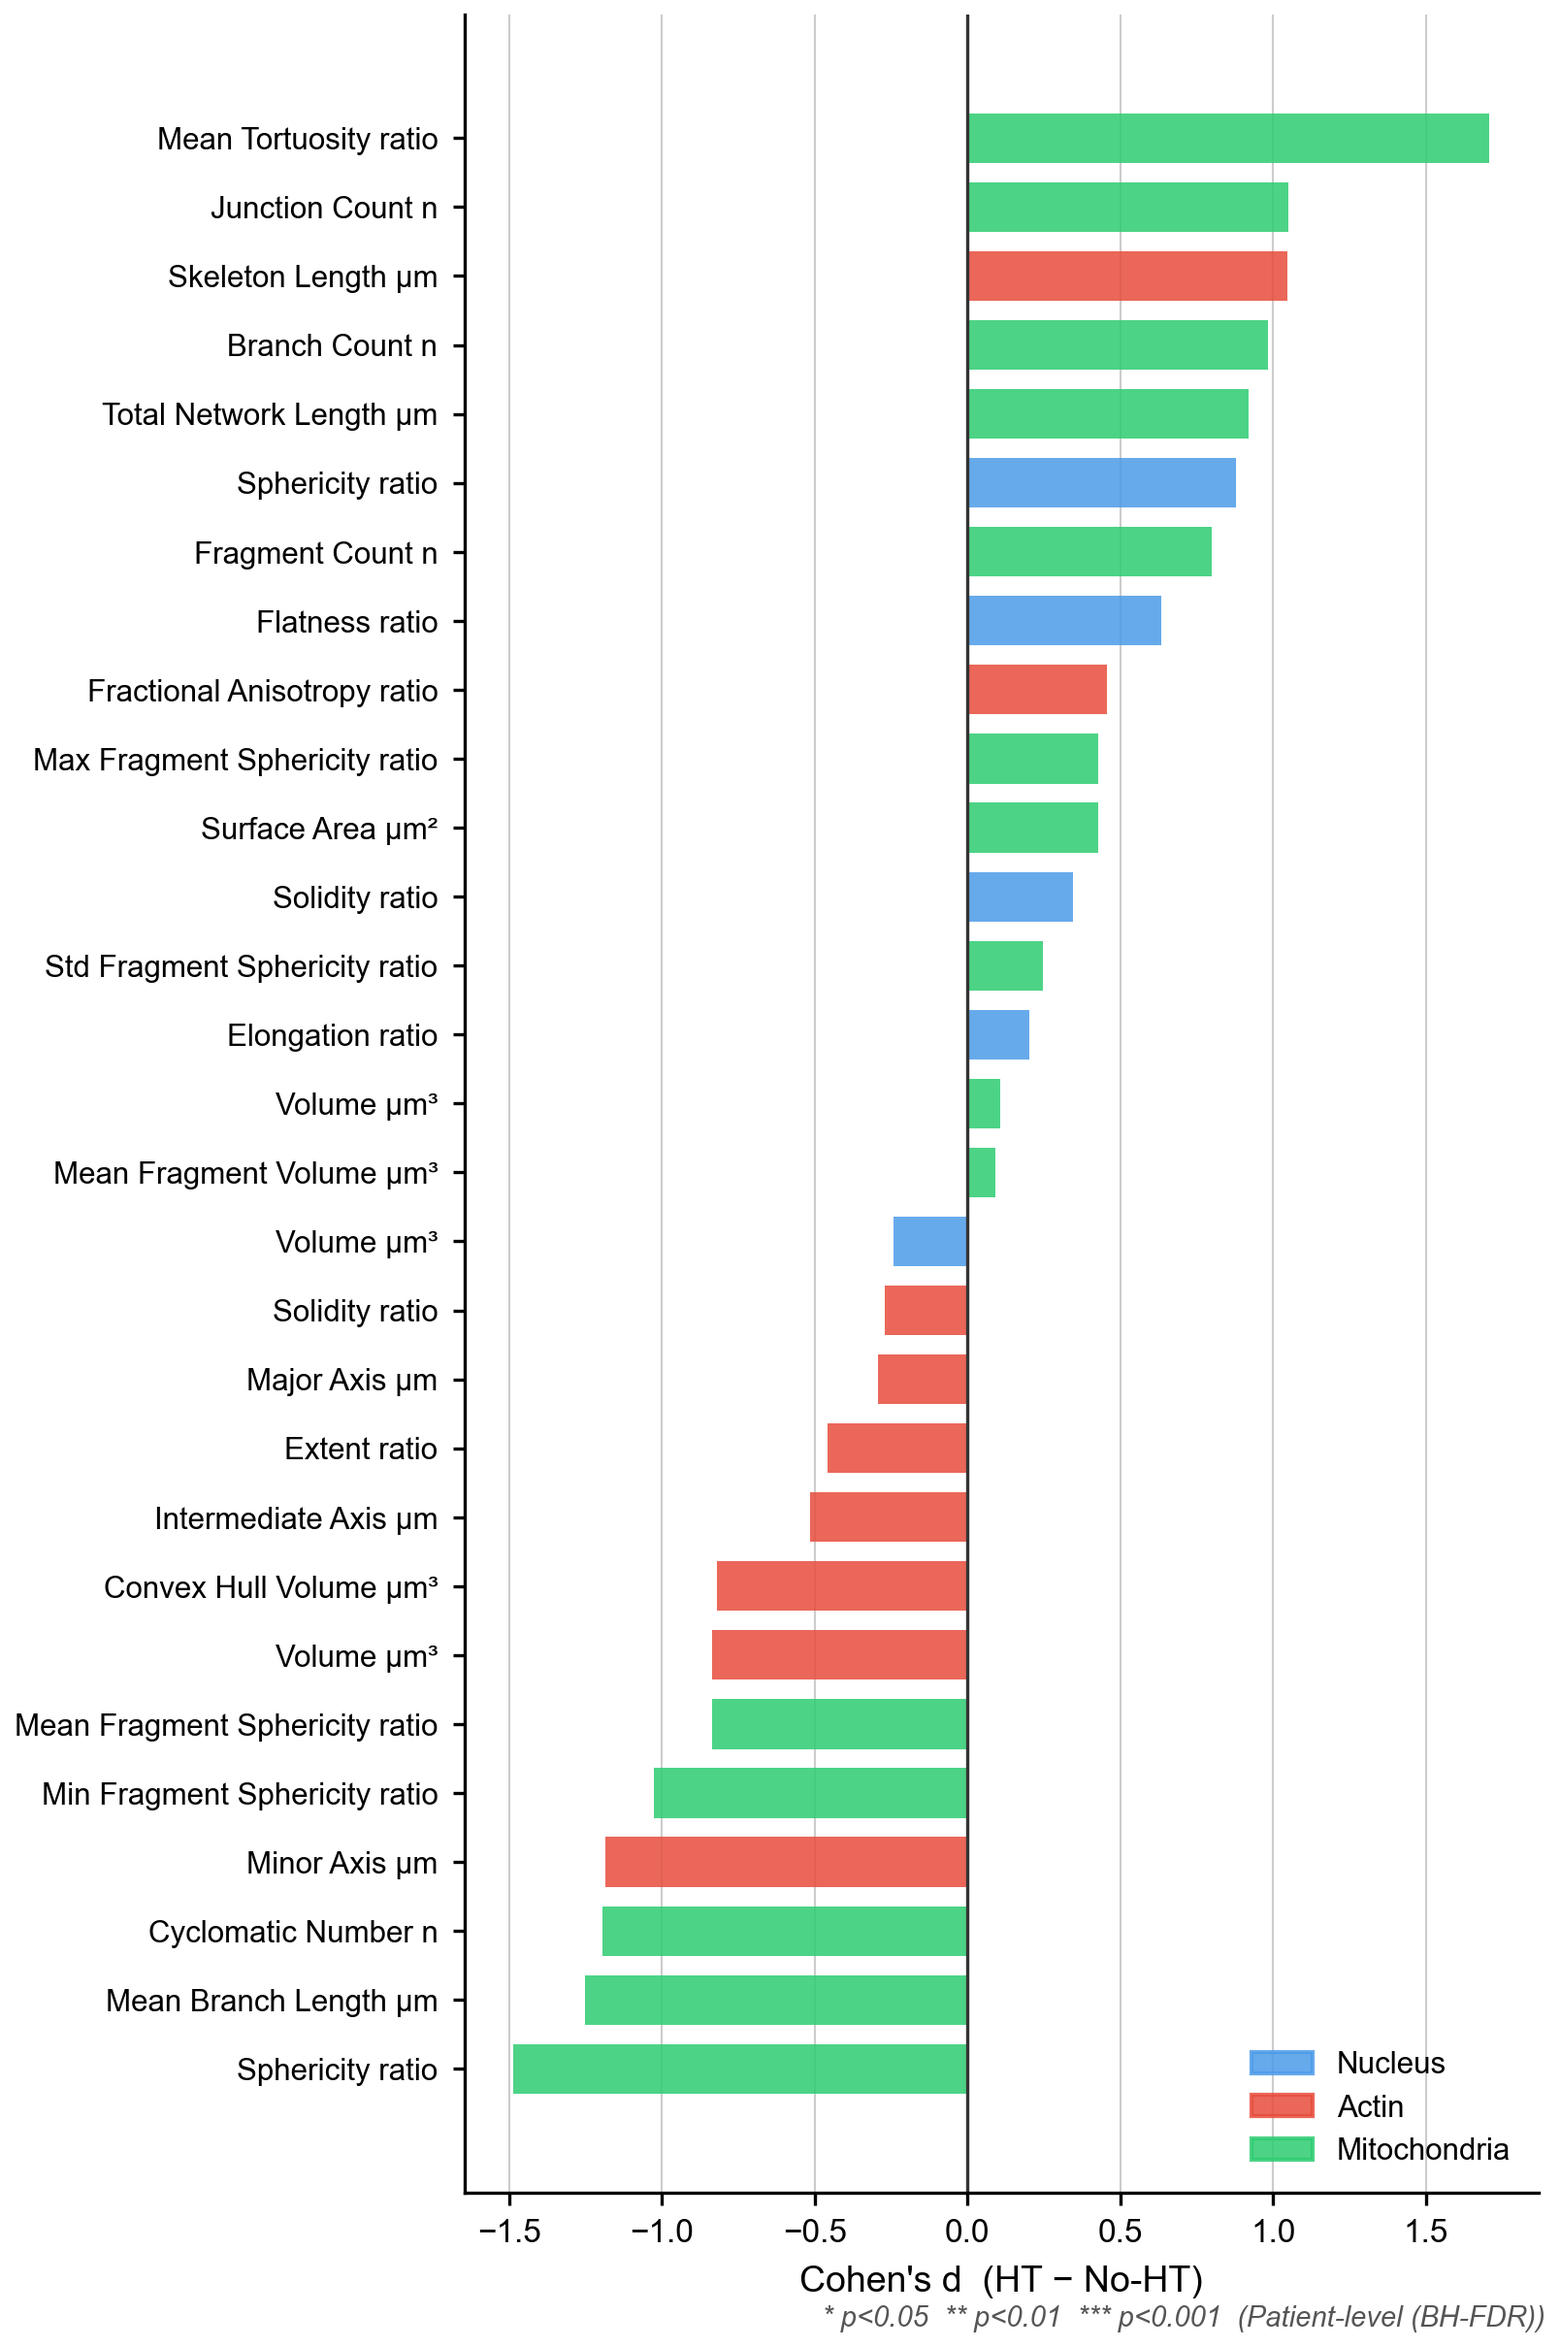
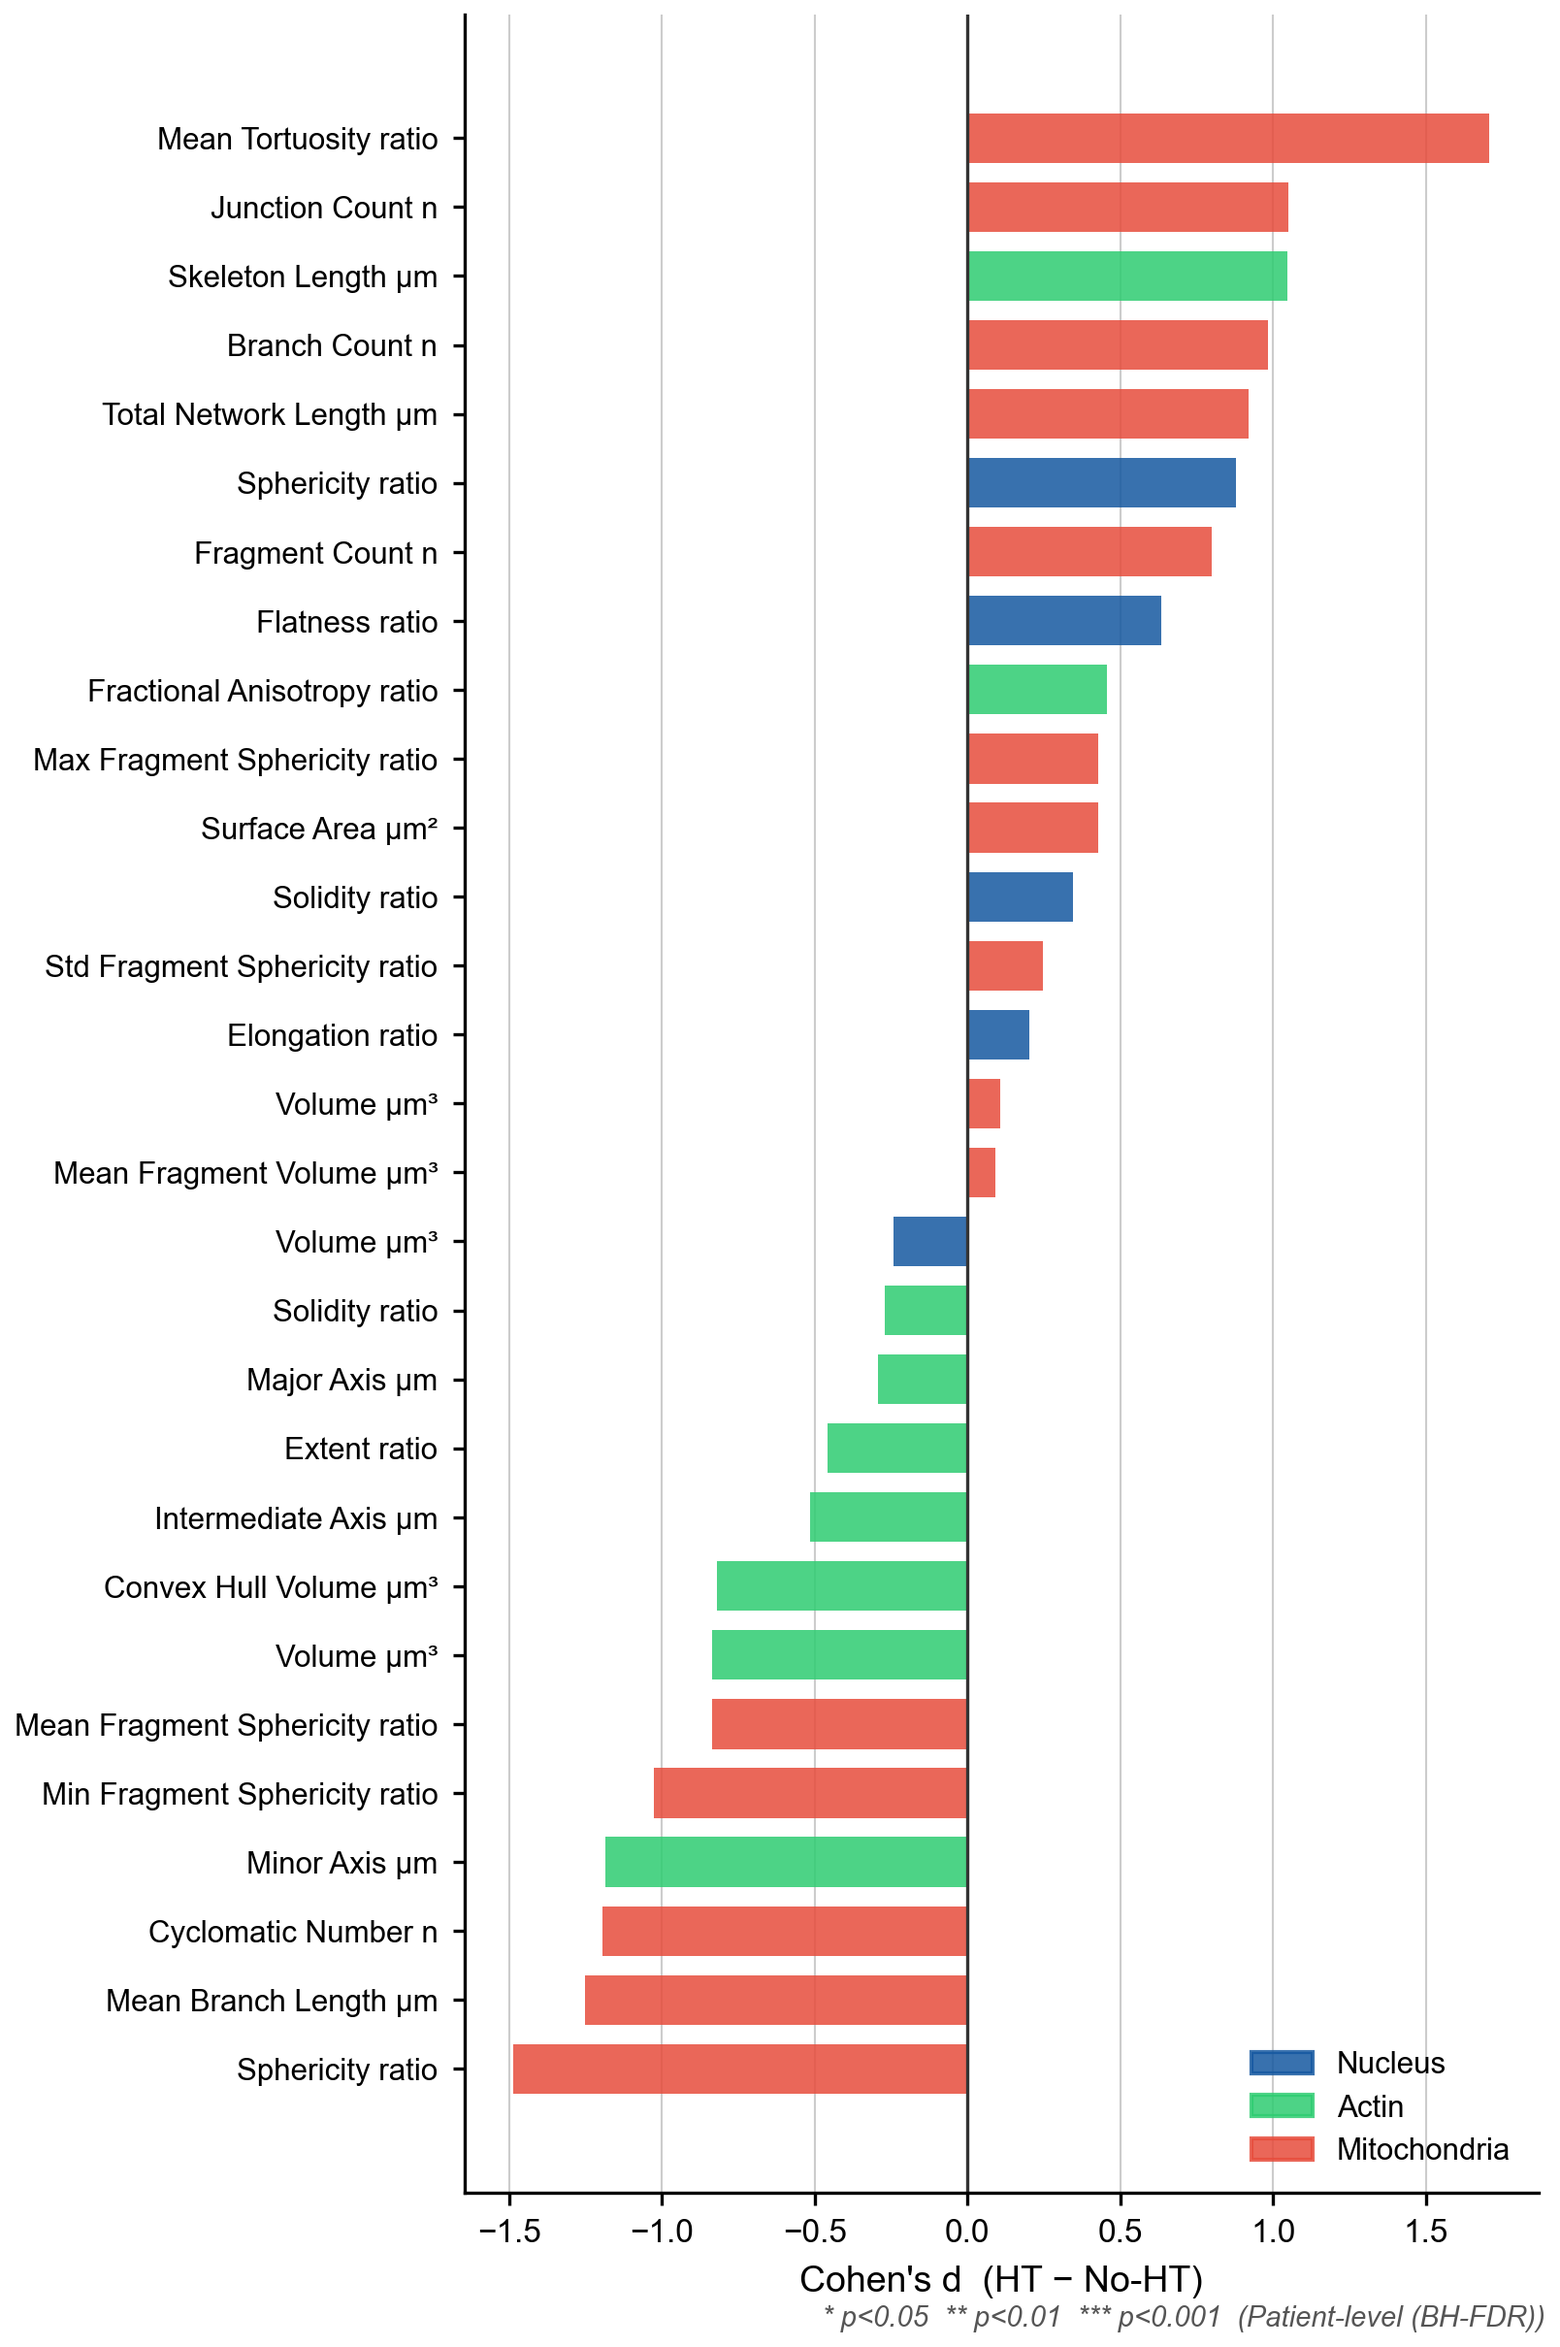
new cohort analysis

Changed region(s): [[0.3109, 0.031, 0.9639, 0.8991], [0.7774, 0.8681, 0.8396, 0.9301]]

diff --git a/src/analysis/plot_cohort_demographics.py b/src/analysis/plot_cohort_demographics.py
@@ -1,0 +1,223 @@
+"""
+Cohort demographics figure: age distribution + sex composition.
+Outputs: outputs/figures/cohort_demographics.png
+"""
+
+import csv
+import math
+import numpy as np
+import matplotlib
+matplotlib.use('Agg')
+import matplotlib.pyplot as plt
+import matplotlib.patches as mpatches
+from pathlib import Path
+from scipy.stats import kruskal, chi2_contingency
+
+PROJ = Path(__file__).resolve().parents[2]
+OUT  = PROJ / 'outputs' / 'figures'
+OUT.mkdir(parents=True, exist_ok=True)
+
+# ── colours matching shared_stats.py ─────────────────────────────────────────
+GROUP_COLORS = {
+    'Healthy': '#4C9BE8',
+    'TAA':     '#E74C3C',
+    'BAV':     '#F39C12',
+}
+GROUP_LABELS = {
+    'Healthy': 'TAV-NA',
+    'TAA':     'TAV-ATAA',
+    'BAV':     'BAV-ATAA',
+}
+SEX_MARKER = {'Male': 'o', 'Female': '^'}
+SEX_FACE   = {'Male': 'white', 'Female': None}   # open = male, filled = female
+
+# ── load data ─────────────────────────────────────────────────────────────────
+def load(path):
+    with open(path) as f:
+        return list(csv.DictReader(f))
+
+p1 = load(PROJ / 'outputs' / 'final_thesis_part1' / 'patient' / 'patient_means.csv')
+p2 = load(PROJ / 'outputs' / 'final_thesis_part2' / 'patient' / 'patient_means.csv')
+
+all_pts = {r['Subject']: r for r in p1}
+for r in p2:
+    if r['Subject'] not in all_pts:
+        all_pts[r['Subject']] = r
+
+groups  = ['Healthy', 'TAA', 'BAV']
+disease_map = {'Healthy': 'Healthy', 'TAA': 'TAA', 'BAV': 'BAV'}
+
+pts_by_group = {g: [] for g in groups}
+for r in all_pts.values():
+    d = r['Disease']
+    if d in pts_by_group:
+        pts_by_group[d].append(r)
+
+# ── stats ─────────────────────────────────────────────────────────────────────
+def ages(rows):
+    return [float(r['Age']) for r in rows if r['Age'] not in ('', 'nan', 'NaN')]
+
+ages_h = ages(pts_by_group['Healthy'])
+ages_t = ages(pts_by_group['TAA'])
+ages_b = ages(pts_by_group['BAV'])
+
+kw_stat, kw_p = kruskal(ages_h, ages_t, ages_b)
+
+sex_counts = {}
+for g in groups:
+    rows = pts_by_group[g]
+    sex_counts[g] = {
+        'Male':   sum(1 for r in rows if r['Gender'] == 'Male'),
+        'Female': sum(1 for r in rows if r['Gender'] == 'Female'),
+    }
+table = [[sex_counts[g]['Male'] for g in groups],
+         [sex_counts[g]['Female'] for g in groups]]
+_, chi2_p, _, _ = chi2_contingency(table)
+
+# ── paper rc ─────────────────────────────────────────────────────────────────
+plt.rcParams.update({
+    'font.family':     'Arial',
+    'font.sans-serif': ['Arial'],
+    'font.size':       9,
+    'axes.titlesize':  9,
+    'axes.labelsize':  9,
+    'xtick.labelsize': 8,
+    'ytick.labelsize': 8,
+    'legend.fontsize': 8,
+    'axes.linewidth':  0.8,
+    'xtick.major.width': 0.8,
+    'ytick.major.width': 0.8,
+    'xtick.major.size':  3,
+    'ytick.major.size':  3,
+    'axes.spines.top':   False,
+    'axes.spines.right': False,
+    'savefig.dpi':       300,
+})
+
+# ── figure layout ─────────────────────────────────────────────────────────────
+fig = plt.figure(figsize=(7.2, 3.2))
+# left panel wider (age), right panel narrower (sex)
+gs = fig.add_gridspec(1, 2, width_ratios=[1.6, 1.0], wspace=0.38,
+                      left=0.09, right=0.97, top=0.88, bottom=0.14)
+ax_age = fig.add_subplot(gs[0])
+ax_sex = fig.add_subplot(gs[1])
+
+# ══════════════════════════════════════════════════════════════════════════════
+# PANEL A — age strip plot with mean ± SD
+# ══════════════════════════════════════════════════════════════════════════════
+group_x = {'Healthy': 1, 'TAA': 2, 'BAV': 3}
+jitter_seed = 42
+rng = np.random.default_rng(jitter_seed)
+
+for g in groups:
+    rows  = pts_by_group[g]
+    xc    = group_x[g]
+    color = GROUP_COLORS[g]
+    ag    = ages(rows)
+
+    # mean ± SD bar
+    mn  = np.mean(ag)
+    sd  = np.std(ag, ddof=1)
+    ax_age.plot([xc - 0.18, xc + 0.18], [mn, mn],
+                color=color, lw=2.0, solid_capstyle='round', zorder=4)
+    ax_age.errorbar(xc, mn, yerr=sd, fmt='none',
+                    color=color, lw=1.4, capsize=4, capthick=1.4, zorder=4)
+
+    # individual dots, jittered, coded by sex
+    jitter = rng.uniform(-0.14, 0.14, size=len(rows))
+    for i, r in enumerate(rows):
+        if r['Age'] in ('', 'nan', 'NaN'):
+            continue
+        age = float(r['Age'])
+        sex = r['Gender']
+        marker  = SEX_MARKER.get(sex, 'o')
+        fc      = 'white' if sex == 'Male' else color
+        ec      = color
+        ax_age.scatter(xc + jitter[i], age,
+                       marker=marker, s=38, facecolor=fc,
+                       edgecolor=ec, linewidth=1.2, zorder=5)
+
+ax_age.set_xticks([1, 2, 3])
+ax_age.set_xticklabels([GROUP_LABELS[g] for g in groups])
+ax_age.set_ylabel('Age (years)')
+ax_age.set_xlim(0.5, 3.5)
+ax_age.set_ylim(30, 90)
+ax_age.set_yticks([30, 40, 50, 60, 70, 80, 90])
+
+# KW annotation
+kw_str = f'Kruskal–Wallis\n$p$ = {kw_p:.3f}'
+ax_age.text(0.97, 0.97, kw_str,
+            transform=ax_age.transAxes, fontsize=7.5,
+            ha='right', va='top', color='#444444',
+            bbox=dict(boxstyle='round,pad=0.3', fc='white', ec='#cccccc', lw=0.7))
+
+ax_age.set_title('A   Age distribution', loc='left', fontweight='bold', fontsize=9)
+
+# sex legend
+leg_handles = [
+    mpatches.Patch(facecolor='#888888', edgecolor='#888888', label='Male (open)'),
+]
+male_handle = plt.Line2D([0], [0], marker='o', color='w',
+                          markerfacecolor='white', markeredgecolor='#555555',
+                          markersize=6, label='Male', linewidth=0)
+fem_handle  = plt.Line2D([0], [0], marker='^', color='w',
+                          markerfacecolor='#555555', markeredgecolor='#555555',
+                          markersize=6, label='Female', linewidth=0)
+ax_age.legend(handles=[male_handle, fem_handle],
+              loc='lower right', frameon=False, fontsize=7.5,
+              handletextpad=0.4, borderpad=0.2)
+
+# ══════════════════════════════════════════════════════════════════════════════
+# PANEL B — sex composition stacked bar
+# ══════════════════════════════════════════════════════════════════════════════
+x_pos   = np.arange(len(groups))
+males   = [sex_counts[g]['Male']   for g in groups]
+females = [sex_counts[g]['Female'] for g in groups]
+totals  = [males[i] + females[i] for i in range(len(groups))]
+
+bar_w = 0.52
+colors_m = [GROUP_COLORS[g] for g in groups]
+colors_f = [GROUP_COLORS[g] for g in groups]
+
+bars_m = ax_sex.bar(x_pos, males,   bar_w, color=colors_m,
+                    alpha=0.40, label='Male',   edgecolor='none')
+bars_f = ax_sex.bar(x_pos, females, bar_w, color=colors_f,
+                    alpha=0.85, bottom=males, label='Female', edgecolor='none')
+
+# count labels inside bars
+for i, (m, f, tot) in enumerate(zip(males, females, totals)):
+    if m > 0:
+        ax_sex.text(i, m / 2, f'{m}M', ha='center', va='center',
+                    fontsize=8, fontweight='bold', color='white')
+    if f > 0:
+        ax_sex.text(i, m + f / 2, f'{f}F', ha='center', va='center',
+                    fontsize=8, fontweight='bold', color='white')
+    ax_sex.text(i, tot + 0.15, f'n={tot}', ha='center', va='bottom',
+                fontsize=7.5, color='#444444')
+
+ax_sex.set_xticks(x_pos)
+ax_sex.set_xticklabels([GROUP_LABELS[g] for g in groups])
+ax_sex.set_ylabel('Number of patients')
+ax_sex.set_ylim(0, max(totals) + 1.8)
+ax_sex.set_yticks(range(0, max(totals) + 2))
+
+chi2_str = f'$\chi^2$ test\n$p$ = {chi2_p:.3f}'
+ax_sex.text(0.97, 0.97, chi2_str,
+            transform=ax_sex.transAxes, fontsize=7.5,
+            ha='right', va='top', color='#444444',
+            bbox=dict(boxstyle='round,pad=0.3', fc='white', ec='#cccccc', lw=0.7))
+
+# legend
+male_patch  = mpatches.Patch(color='#888888', alpha=0.40, label='Male')
+fem_patch   = mpatches.Patch(color='#888888', alpha=0.85, label='Female')
+ax_sex.legend(handles=[male_patch, fem_patch],
+              loc='upper left', frameon=False, fontsize=7.5,
+              handletextpad=0.4, borderpad=0.2)
+
+ax_sex.set_title('B   Sex composition', loc='left', fontweight='bold', fontsize=9)
+
+# ── save ──────────────────────────────────────────────────────────────────────
+out_path = OUT / 'cohort_demographics.png'
+fig.savefig(out_path, dpi=300, bbox_inches='tight', pad_inches=0.05)
+plt.close(fig)
+print(f'Saved → {out_path}')

diff --git a/src/analysis/final_thesis_part3/run.py b/src/analysis/final_thesis_part3/run.py
@@ -75,9 +75,9 @@ DISEASE_COLORS = {
     'Diseased': '#C0392B',
 }
 ORGANELLE_COLORS = {
-    'Nucleus':      '#4C9BE8',
-    'Actin':        '#E74C3C',
-    'Mitochondria': '#2ECC71',
+    'Nucleus':      '#1558A0',  # dark blue
+    'Actin':        '#2ECC71',  # green
+    'Mitochondria': '#E74C3C',  # red
 }
 CLF_COLORS = {
     'Logistic Regression': '#8E44AD',
@@ -332,8 +332,8 @@ def run_lopo_cv(df, feat_cols, task_name, label_col, class_names, out_dir):
 # ══════════════════════════════════════════════════════════════════════════════
 def _paper_rc():
     plt.rcParams.update({
-        'font.family':       'sans-serif',
-        'font.sans-serif':   ['Arial', 'Helvetica', 'DejaVu Sans'],
+        'font.family':       'Arial',
+        'font.sans-serif':   ['Arial'],
         'font.size':         9,
         'axes.labelsize':    9,
         'axes.titlesize':    9,

diff --git a/src/analysis/shared_stats.py b/src/analysis/shared_stats.py
@@ -48,9 +48,9 @@ GROUP_LABELS = {
     'BAV':     'BAV-ATAA',
 }
 ORGANELLE_COLORS = {
-    'Nucleus':      '#4C9BE8',
-    'Actin':        '#E74C3C',
-    'Mitochondria': '#2ECC71',
+    'Nucleus':      '#1558A0',  # dark blue
+    'Actin':        '#2ECC71',  # green
+    'Mitochondria': '#E74C3C',  # red
 }
 LEVEL_COLORS = {'Patient': '#8E44AD', 'Cell': '#E67E22'}
 
@@ -105,8 +105,8 @@ def footer(fig, level='patient'):
 
 def _paper_rc():
     plt.rcParams.update({
-        'font.family':        'sans-serif',
-        'font.sans-serif':    ['Arial', 'Helvetica', 'DejaVu Sans'],
+        'font.family':        'Arial',
+        'font.sans-serif':    ['Arial'],
         'font.size':          9,
         'axes.labelsize':     9,
         'axes.titlesize':     9,
